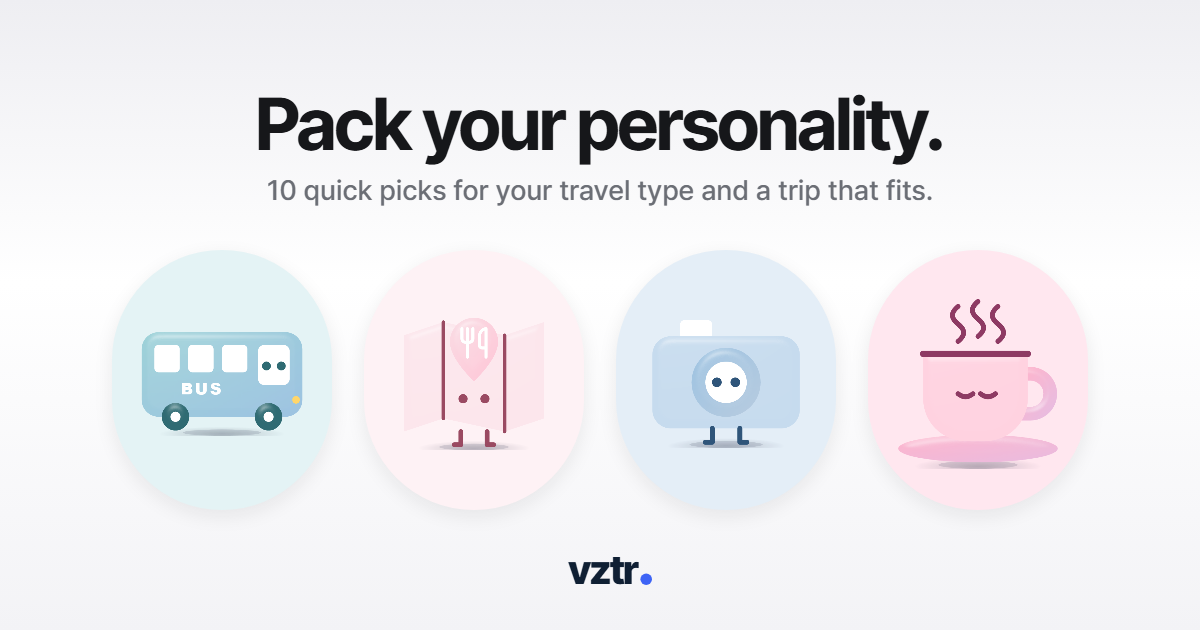
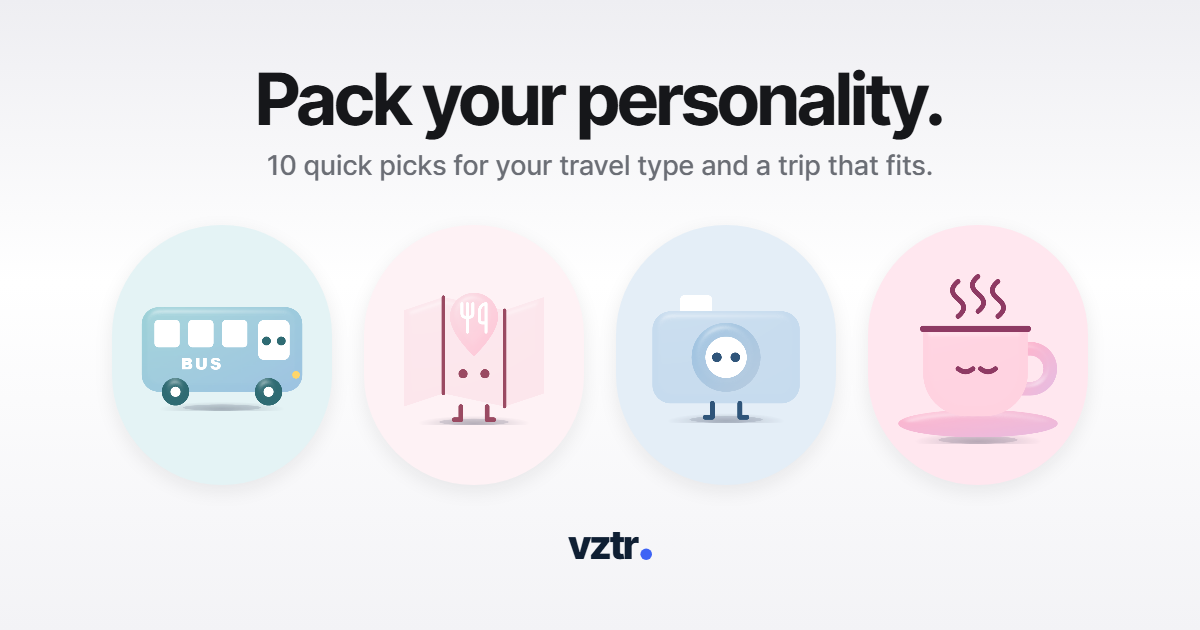
VZTR 첫 페이지 미리보기 설명·이미지

diff --git a/gaboja/index.html b/gaboja/index.html
@@ -10,21 +10,21 @@
 <link rel="apple-touch-icon" href="icons/icon-180.png">
 <link rel="manifest" href="manifest.webmanifest">
 <meta name="apple-mobile-web-app-title" content="VZTR">
-<meta name="description" content="10번 고르면 내 여행 유형과 맞춤 일정이 나와요.">
+<meta name="description" content="내 여행 유형이랑 맞춤 일정을 받아보자!">
 <meta property="og:type" content="website">
 <meta property="og:site_name" content="VZTR">
 <meta property="og:title" content="VZTR — 이번 여행, 나답게.">
-<meta property="og:description" content="10번 고르면 내 여행 유형과 맞춤 일정이 나와요.">
+<meta property="og:description" content="내 여행 유형이랑 맞춤 일정을 받아보자!">
 <meta property="og:url" content="https://vztr.app/">
 <meta property="og:locale" content="ko_KR">
-<meta property="og:image" content="https://vztr.app/og/ko-main.png?v=1">
+<meta property="og:image" content="https://vztr.app/og/ko-main.png?v=2">
 <meta property="og:image:width" content="1200">
 <meta property="og:image:height" content="630">
 <meta property="og:image:alt" content="VZTR — 이번 여행, 나답게.">
 <meta name="twitter:card" content="summary_large_image">
 <meta name="twitter:title" content="VZTR — 이번 여행, 나답게.">
-<meta name="twitter:description" content="10번 고르면 내 여행 유형과 맞춤 일정이 나와요.">
-<meta name="twitter:image" content="https://vztr.app/og/ko-main.png?v=1">
+<meta name="twitter:description" content="내 여행 유형이랑 맞춤 일정을 받아보자!">
+<meta name="twitter:image" content="https://vztr.app/og/ko-main.png?v=2">
 <style>:root{color-scheme:light;padding-top:env(safe-area-inset-top,0px);padding-bottom:env(safe-area-inset-bottom,0px)}body{margin:0}img{max-width:100%}[hidden]{display:none!important}</style>
 <title>VZTR</title>
 </head>

diff --git a/gaboja/landing.html b/gaboja/landing.html
@@ -7,21 +7,21 @@
 <meta name="robots" content="noindex, nofollow">
 <meta name="theme-color" content="#F8F8FA">
 <title>VZTR — 이번 여행, 나답게.</title>
-<meta name="description" content="10번 고르면 내 여행 유형과 맞춤 일정이 나와요.">
+<meta name="description" content="내 여행 유형이랑 맞춤 일정을 받아보자!">
 <meta property="og:type" content="website">
 <meta property="og:site_name" content="VZTR">
 <meta property="og:title" content="VZTR — 이번 여행, 나답게.">
-<meta property="og:description" content="10번 고르면 내 여행 유형과 맞춤 일정이 나와요.">
+<meta property="og:description" content="내 여행 유형이랑 맞춤 일정을 받아보자!">
 <meta property="og:url" content="https://vztr.app/landing.html">
 <meta property="og:locale" content="ko_KR">
-<meta property="og:image" content="https://vztr.app/og/ko-main.png?v=1">
+<meta property="og:image" content="https://vztr.app/og/ko-main.png?v=2">
 <meta property="og:image:width" content="1200">
 <meta property="og:image:height" content="630">
 <meta property="og:image:alt" content="VZTR — 이번 여행, 나답게.">
 <meta name="twitter:card" content="summary_large_image">
 <meta name="twitter:title" content="VZTR — 이번 여행, 나답게.">
-<meta name="twitter:description" content="10번 고르면 내 여행 유형과 맞춤 일정이 나와요.">
-<meta name="twitter:image" content="https://vztr.app/og/ko-main.png?v=1">
+<meta name="twitter:description" content="내 여행 유형이랑 맞춤 일정을 받아보자!">
+<meta name="twitter:image" content="https://vztr.app/og/ko-main.png?v=2">
 <link rel="icon" href="icons/favicon-32.png">
 <link rel="apple-touch-icon" href="icons/icon-180.png">
 <link rel="manifest" href="manifest.webmanifest">

diff --git a/gaboja/start.html b/gaboja/start.html
@@ -4,21 +4,21 @@
 <script src="migrate.js?v=2"></script>
 <meta charset="utf-8">
 <title>VZTR 여행 유형</title>
-<meta name="description" content="10번 고르면 내 여행 유형과 맞춤 일정이 나와요.">
+<meta name="description" content="내 여행 유형이랑 맞춤 일정을 받아보자!">
 <meta property="og:type" content="website">
 <meta property="og:site_name" content="VZTR">
 <meta property="og:title" content="나는 어떤 여행자일까?">
-<meta property="og:description" content="10번 고르면 내 여행 유형과 맞춤 일정이 나와요.">
+<meta property="og:description" content="내 여행 유형이랑 맞춤 일정을 받아보자!">
 <meta property="og:url" content="https://vztr.app/start.html">
 <meta property="og:locale" content="ko_KR">
-<meta property="og:image" content="https://vztr.app/og/ko-main.png?v=1">
+<meta property="og:image" content="https://vztr.app/og/ko-main.png?v=2">
 <meta property="og:image:width" content="1200">
 <meta property="og:image:height" content="630">
 <meta property="og:image:alt" content="나는 어떤 여행자일까?">
 <meta name="twitter:card" content="summary_large_image">
 <meta name="twitter:title" content="나는 어떤 여행자일까?">
-<meta name="twitter:description" content="10번 고르면 내 여행 유형과 맞춤 일정이 나와요.">
-<meta name="twitter:image" content="https://vztr.app/og/ko-main.png?v=1">
+<meta name="twitter:description" content="내 여행 유형이랑 맞춤 일정을 받아보자!">
+<meta name="twitter:image" content="https://vztr.app/og/ko-main.png?v=2">
 <meta name="viewport" content="width=device-width, initial-scale=1, viewport-fit=cover">
 <meta name="claude:viewport-fit-sides" content="cover">
 <meta name="robots" content="noindex, nofollow">

diff --git a/gaboja/en/index.html b/gaboja/en/index.html
@@ -17,14 +17,14 @@
 <meta property="og:description" content="10 quick picks for your travel type and a trip that fits.">
 <meta property="og:url" content="https://vztr.app/en/">
 <meta property="og:locale" content="en_US">
-<meta property="og:image" content="https://vztr.app/og/en-main.png?v=1">
+<meta property="og:image" content="https://vztr.app/og/en-main.png?v=2">
 <meta property="og:image:width" content="1200">
 <meta property="og:image:height" content="630">
 <meta property="og:image:alt" content="VZTR — Pack your personality.">
 <meta name="twitter:card" content="summary_large_image">
 <meta name="twitter:title" content="VZTR — Pack your personality.">
 <meta name="twitter:description" content="10 quick picks for your travel type and a trip that fits.">
-<meta name="twitter:image" content="https://vztr.app/og/en-main.png?v=1">
+<meta name="twitter:image" content="https://vztr.app/og/en-main.png?v=2">
 <style>:root{color-scheme:light;padding-top:env(safe-area-inset-top,0px);padding-bottom:env(safe-area-inset-bottom,0px)}body{margin:0}img{max-width:100%}[hidden]{display:none!important}</style>
 <title>VZTR</title>
 </head>

diff --git a/gaboja/en/start.html b/gaboja/en/start.html
@@ -11,14 +11,14 @@
 <meta property="og:description" content="10 quick picks for your travel type and a trip that fits.">
 <meta property="og:url" content="https://vztr.app/en/start.html">
 <meta property="og:locale" content="en_US">
-<meta property="og:image" content="https://vztr.app/og/en-main.png?v=1">
+<meta property="og:image" content="https://vztr.app/og/en-main.png?v=2">
 <meta property="og:image:width" content="1200">
 <meta property="og:image:height" content="630">
 <meta property="og:image:alt" content="What kind of traveler are you?">
 <meta name="twitter:card" content="summary_large_image">
 <meta name="twitter:title" content="What kind of traveler are you?">
 <meta name="twitter:description" content="10 quick picks for your travel type and a trip that fits.">
-<meta name="twitter:image" content="https://vztr.app/og/en-main.png?v=1">
+<meta name="twitter:image" content="https://vztr.app/og/en-main.png?v=2">
 <meta name="viewport" content="width=device-width, initial-scale=1, viewport-fit=cover">
 <meta name="claude:viewport-fit-sides" content="cover">
 <meta name="robots" content="noindex, nofollow">

diff --git a/gaboja/en/landing.html b/gaboja/en/landing.html
@@ -14,14 +14,14 @@
 <meta property="og:description" content="10 quick picks for your travel type and a trip that fits.">
 <meta property="og:url" content="https://vztr.app/en/landing.html">
 <meta property="og:locale" content="en_US">
-<meta property="og:image" content="https://vztr.app/og/en-main.png?v=1">
+<meta property="og:image" content="https://vztr.app/og/en-main.png?v=2">
 <meta property="og:image:width" content="1200">
 <meta property="og:image:height" content="630">
 <meta property="og:image:alt" content="VZTR — Pack your personality.">
 <meta name="twitter:card" content="summary_large_image">
 <meta name="twitter:title" content="VZTR — Pack your personality.">
 <meta name="twitter:description" content="10 quick picks for your travel type and a trip that fits.">
-<meta name="twitter:image" content="https://vztr.app/og/en-main.png?v=1">
+<meta name="twitter:image" content="https://vztr.app/og/en-main.png?v=2">
 <link rel="icon" href="icons/favicon-32.png">
 <link rel="apple-touch-icon" href="icons/icon-180.png">
 <link rel="manifest" href="manifest.webmanifest">
